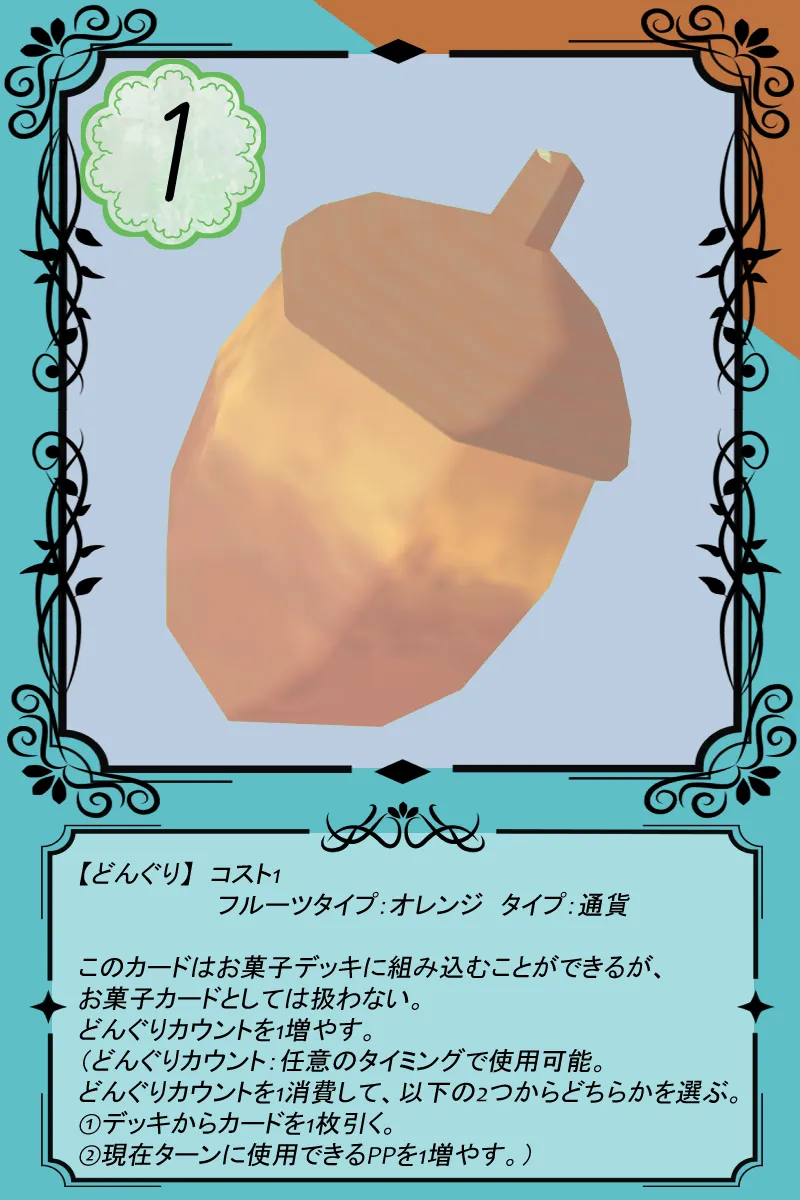
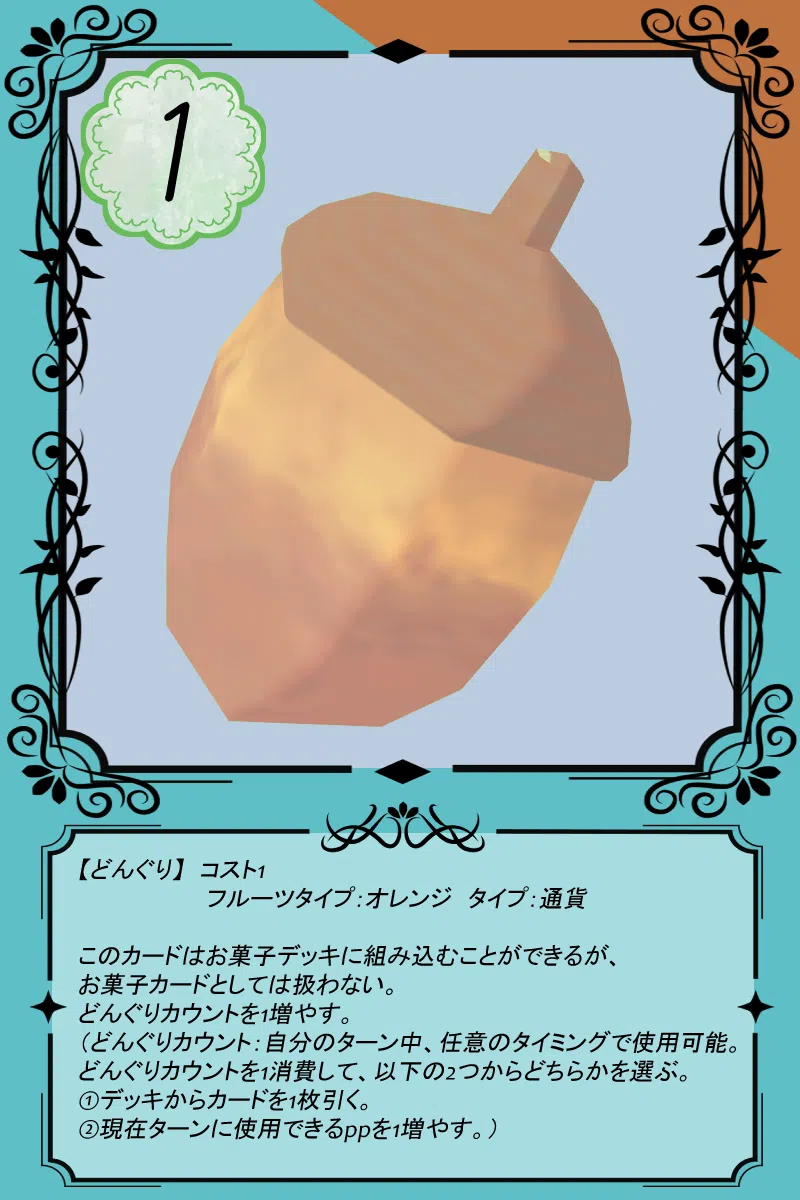
カード5枚の差し替え画像を元のファイル名で上書きし、生成物のOGP用PNGを外す
pplale-cmsが乱数のファイル名で新しい画像を追加し、Git管理しないOGP用PNGまでコミットしていたため、
画像は元の名前に戻し、旧画像が参照されずに残らないようにする。ぶどうのとここの効果文はカードの印字
「この幼女が自分の場にいる状態で」に揃え、カードの文が変わったので裁定集の「変更予定」の記述を更新する。

Changed region(s): [[0.0938, 0.7092, 0.9062, 0.9867]]

diff --git a/docs/game-rules.md b/docs/game-rules.md
@@ -297,7 +297,7 @@
 | いちごのみゅーとんで、相手の場に幼女がいなく自分の場にだけ他の幼女がいる | 自分の幼女を必ず選ぶ（選ばずに済ませることはできない）。 |
 | 後攻5ターン目の+2PPは「最大PP」か | 数えない。現在PPだけを2増やす。あみのの「最大PPが7以上」などの条件にも含めない（2026-10-18 ユーザー裁定で更新）。 |
 | じょんこがカード効果のダメージ・破壊を受けたときの見せ方 | 専用の表示は出さず、ダメージ0として見せる。挑発はカードの挑発の表示だけで示す。 |
-| Exスキルは「プレイアブルキャラのスキル」か | 含まれない。ぶどうのとここ・ぶどうのもなかのカードに「（Exスキルは除く）」を追記予定。 |
+| Exスキルは「プレイアブルキャラのスキル」か | 含まれない。ぶどうのとここ・ぶどうのもなかのカードにも「(Exスキルは除く)」とある。 |
 | カードの移動と効果 | 手札から場に出るとき以外の移動（場→手札、場→お昼寝、手札→お昼寝、お昼寝→手札、山札→手札など）で、カード効果で得たもの（能力値の変化・ダメージ・コストの変化・付いた能力やタイプ・効果を失った状態など）はリセットされる。手札から場に出るときは引き継ぐ。「このゲーム中」と書かれた付与（ソーダのタイプ）は残る。 |
 | ランダムな対象と、効果を受けない幼女 | 全員からランダムに選び、色おに・破壊耐性・ダメージ耐性の幼女に当たれば無効になる。 |
 | 「カード効果によって」の範囲 | プレイアブルのスキルはカード効果に含む。魅惑の水煙はレンテの強欲なクマのドローと、サーチ効果でデッキから手札に加えたカードにも1枚につき1点反応する。10・5ポイントのドローとどんぐりのドロー（どんぐりカウントによる）はゲームの仕組みのドローで、含まない。 |
@@ -305,7 +305,7 @@
 | 相打ち（同時に破壊される） | 同時判定。破壊を見て発動する効果（オレンジのほとり丸）は、同時に破壊された相手を数えない（どちらのターンでも）。ほとり丸の「相手の場の幼女すべてに2ダメージ」で倒した幼女は数える。お互いに破壊時効果を持つ相打ちは、自ターン側の効果から処理する。 |
 | 膠着とスキル | ブラウザ版では、Exスキルと回数制限のないスキル（しゅれい）の使用は「行動」に数えない（空打ちの千日手を判定勝ちで終わらせるため）。実物の対戦では審判判断で判定勝ち。 |
 | 「してもよい」支払い | 払っても何も起きないときも聞く。ここあの献身はお菓子ポイントが最大値でも自動で消費する。 |
-| ぶどうのとここ | 自分のプレイアブルキャラのスキルでだけかくれんぼを持つ（カードに「自身の」を追記予定）。 |
+| ぶどうのとここ | 自分のプレイアブルキャラのスキルでだけかくれんぼを持つ。 |
 | ぶどうのうゆち | HP0のうゆち自身は選べない。 |
 | おにごっこを2つ得たとき（ぶどうのちょりなど） | 強いほう（Xの小さいほう）が有効。内部的には両方を持っている。 |
 | ぶどうのまこぽに | ぶどうのまこぽには持ってこない。ソーダでぶどうタイプを得たいちごのまこぽには持ってこられる。 |
@@ -333,7 +333,7 @@
 | アイス × おいしくなる呪文 | 増えるアイスと、使ったときの効果の両方が2倍。 |
 | いぬさんだんご × おいしくなる呪文 | 2ドローが4ドローになるのと同じ扱いで、4人手札に加える。同名不可（フルーツ違いは可）のまま。 |
 | ぜんりょくおうえん☆ぷぷりえーるの割引 | 公開した時点のXで決まる。どの効果で公開されても割引する。 |
-| ソーダ（ぷぷりえメロンソーダ・グレープソーダ）のタイプ | このゲーム中ずっと、自分の場・手札・幼女デッキ・お昼寝場所にあるすべての幼女が持つ。使ったあとに来た幼女（手札に加わったトークンなど）も持つ。カードの文は「自分の場、手札、幼女デッキ、お昼寝場所にある全ての幼女に」に変更予定。 |
+| ソーダ（ぷぷりえメロンソーダ・グレープソーダ）のタイプ | このゲーム中ずっと、自分の場・手札・幼女デッキ・お昼寝場所にあるすべての幼女が持つ。使ったあとに来た幼女（手札に加わったトークンなど）も持つ。 |
 | ぷぷりえ焼き（カスタード）の「さらに1回復」 | 2回の回復（ここあの献身は2回働く）。 |
 | ここあの献身と「奪う」 | 「奪う」で増える分も回復として数える。 |
 | クマはサイコロを振らない | 残り回数がある間は自動発動し、振る前に1〜6の出目を指定する。「使用しない」は選べない。1回のダイスにつき1回分を使う。 |
@@ -341,7 +341,7 @@
 | チョコミントタワーアイス「6ターン目以降」 | 自分の6ターン目。 |
 | チャイ（X≥3）「かくれんぼの効果を無視して」 | 隠れている挑発の幼女に対象が集中する。 |
 | いっしょにおしゃしん | 括弧内はお遊びテキストで、条件はない。お互い1枚引く。 |
-| どんぐりカウント | 使用できるPPを1増やす（最大PPを超えてよく、絶対上限もない）。使えるのは自分のターン中だけ（カードの文は「自分のターン中、任意のタイミングで」に変更予定）。 |
+| どんぐりカウント | 使用できるPPを1増やす（最大PPを超えてよく、絶対上限もない）。使えるのは自分のターン中だけ。 |
 | しゅれいのMP・スキル回数 | MPはルナレストアだけで増える。固有スキルに回数制限はなく、PP・MPだけが制限。 |
 | しゅれい × ぶどうのもなか | 回数制限のないスキルは残り回数が無限として扱う。プレイアブルがしゅれいなら、ぶどうのもなかは自力では動けない。 |
 | しゅれいのアストラルフレア | 自分の場も含む。効果耐性・効果破壊耐性の幼女は残る。 |

diff --git a/docs/card-effect-rules.md b/docs/card-effect-rules.md
@@ -78,7 +78,7 @@
 - 手札誘発のうち、メロンのぶらんちゃん（相手のプレイの打ち消し）の確認中は、プレイされたカードを両者に見せる。質問文と選択肢は相手に見せない。プレイアブルの反応スキルは公開情報なので、確認を隠さない。
 - 「お菓子ポイントが回復するたび」（メロンのうぃまる・ももか）は、最大値で増えなかった回復でも発動する（ユーザー裁定）。「奪う」で増えた分も数える。
 - メロンのレンテが奪ったスキルは、プレイヤーごとに別枠で持つ。印刷どおりのPPで使い、使用履歴（ぶどうのしゅおが見る）には数えない。ぶどうのとここの「スキルが使用されたならば」には数える。ぶどうのもなかが見るのは自分のスキルの残り回数で、奪ったスキルは関係しない。
-- スキルの回数は「上限」をエンジンが計算する（いのまこのパッシブで共通スキルが3回になる）。回数制限のないスキル（しゅれい）は残り回数を持たず、PP・MPだけで決まる。ぶどうのもなかの「スキルすべての残り使用回数が0」では、回数制限のないスキルは残りが無限として扱う（しゅれいのときもなかは自力で動けない。ユーザー裁定）。MPは初期3・最大20で、ルナレストアだけが回復する。
+- スキルの回数は「上限」をエンジンが計算する（いのまこのパッシブで共通スキルが3回になる）。回数制限のないスキル（しゅれい）は残り回数を持たず、PP・MPだけで決まる。ぶどうのもなかの「スキル(Exスキルは除く)のすべての残り使用回数が0」では、回数制限のないスキルは残りが無限として扱う（しゅれいのときもなかは自力で動けない。ユーザー裁定）。MPは初期3・最大20で、ルナレストアだけが回復する。
 - 保存データと盤面の共有コードに、MP・行動不能の期限・行動回数・期限つきのフルーツタイプ・奪ったスキル・場に出たときの強化（ビデカメ）・捨てた幼女の数（しゅみあ）を含める。
 
 レンテの出目指定（クマはサイコロを振らない）は、残り回数がある間は自動発動し、「使用しない」は選べない。振る前に1〜6から決め、1回のダイスにつき1回分だけ消費する（ユーザー裁定）。

diff --git a/docs/open-questions.md b/docs/open-questions.md
@@ -24,9 +24,6 @@
 
 カードの文の変更予定（ユーザーが変更する。実装は変更後の文に合わせてある）：
 
-- ぶどうのとここ・ぶどうのもなか：「（Exスキルは除く）」を追記。ぶどうのとここ：「自身の」を追記。
-- ぷぷりえメロンソーダ・ぷぷりえグレープソーダ：「自分の場、手札、幼女デッキ、お昼寝場所にある全ての幼女に」。
-- どんぐり：「任意のタイミング」を「自分のターン中、任意のタイミング」に。
 - すいーつあーん：わかりやすい文に変更（手札にお菓子カードがなければプレイできない）。
 
 ## 3. 実装上の気になる点
